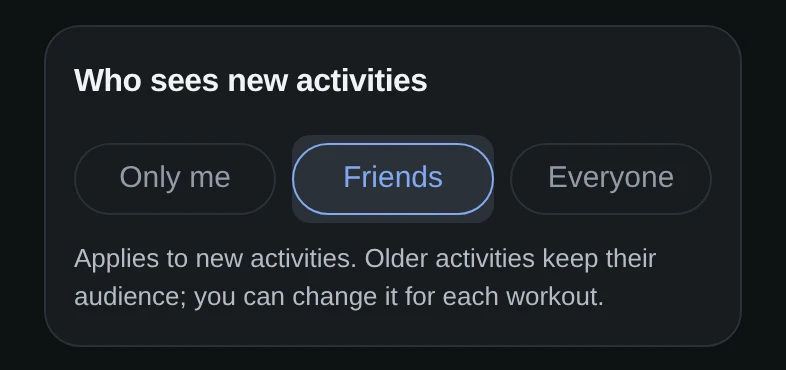
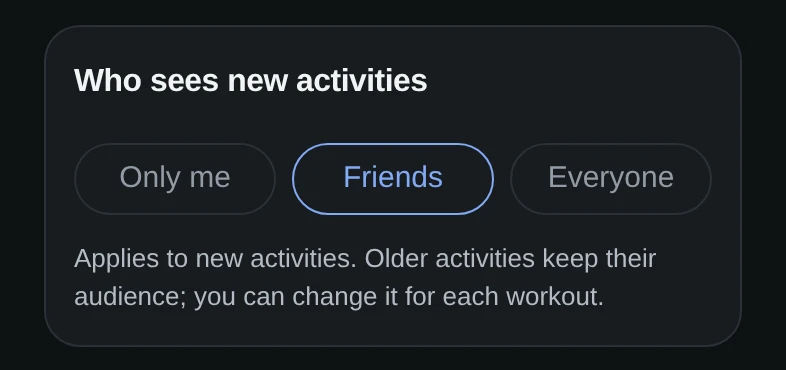
Website: dark audience default captured with #911's fix; shorter Home line

Changed region(s): [[0.3664, 0.3568, 0.6412, 0.6243]]

diff --git a/site/index.html b/site/index.html
@@ -56,7 +56,7 @@
 <section class="tour-hero"><div class="wrap"><span class="eyebrow">Training and food, one app</span><h1>Track workouts. Log food. See progress.</h1><p class="lede">Runs, rides, lifting and meals in one place.</p><a class="btn solid" href="https://login.kinetta.app/signup">Get started</a><div class="tour-access"><a href="https://login.kinetta.app/">Sign in</a><a href="https://testflight.apple.com/join/YAX1JnwB">Install the iPhone beta</a></div><p class="tour-access-note">Your account works on the web; the iPhone beta installs through TestFlight.</p></div></section>
 <section class="tour-pair"><div class="wrap"><figure><div class="tour-workout"><picture><source srcset="assets/tour/activity-map-dark.png" media="(prefers-color-scheme: dark)"><img src="assets/tour/activity-map-light.png" alt="Fictional Morning Run route through streets and a park, with OpenStreetMap contributors and Protomaps attribution." width="786" height="786"></picture><picture><source srcset="assets/tour/activity-result-dark.png" media="(prefers-color-scheme: dark)"><img src="assets/tour/activity-result-light.png" alt="The same Morning Run: distance 3.0 miles, elapsed time 25 minutes, pace 8:18 per mile, elevation 218 feet, average heart rate 149 and cadence 168." width="696" height="332"></picture></div><figcaption><h2>Review a workout</h2><p>The route, then the numbers.</p><a class="tour-link" href="training">Explore Training →</a></figcaption></figure><figure><div class="tour-image"><picture><source srcset="assets/tour/food-day-dark.webp" media="(prefers-color-scheme: dark)"><img src="assets/tour/food-day-light.webp" alt="Fictional logged food day showing daily totals and a complete Breakfast list of foods and amounts." width="730" height="915" fetchpriority="high"></picture></div><figcaption><h2>Log what you eat</h2><p>Every food and amount, with daily totals.</p><a class="tour-link" href="food">Explore Food →</a></figcaption></figure></div></section>
 <section class="tour-band"><div class="wrap tour-split"><div><span class="eyebrow">Progress</span><h2>See your weeks add up.</h2><p class="lede">Totals by week, month and year.</p><a class="tour-link" href="guide#task-week">Revisit a training week →</a></div><figure><div class="tour-image"><picture><source srcset="assets/tour/progress-week-dark.webp" media="(prefers-color-scheme: dark)"><img src="assets/tour/progress-week-light.webp" alt="Fictional weekly running totals and dated distance history chart, with Week, Month and Year views." width="702" height="880" loading="lazy"></picture></div></figure></div></section>
-<section class="tour-band"><div class="wrap tour-split"><div><span class="eyebrow">Privacy</span><h2>Choose who sees your workouts.</h2><p class="lede">Set a default for new workouts, or change one at a time.</p><a class="tour-link" href="friends">Explore Friends →</a></div><figure><div class="tour-image"><picture><source srcset="assets/tour/sharing-default-dark.webp" media="(prefers-color-scheme: dark)"><img src="assets/tour/sharing-default-light.webp" alt="Fictional Sharing &amp; privacy setting: Who sees new activities, with Only me, Friends (selected) and Everyone. It applies to new activities; each workout can be changed." width="786" height="370" loading="lazy"></picture></div></figure></div></section>
+<section class="tour-band"><div class="wrap tour-split"><div><span class="eyebrow">Privacy</span><h2>Choose who sees your workouts.</h2><p class="lede">Set a default, or change one workout.</p><a class="tour-link" href="friends">Explore Friends →</a></div><figure><div class="tour-image"><picture><source srcset="assets/tour/sharing-default-dark.webp" media="(prefers-color-scheme: dark)"><img src="assets/tour/sharing-default-light.webp" alt="Fictional Sharing &amp; privacy setting: Who sees new activities, with Only me, Friends (selected) and Everyone. It applies to new activities; each workout can be changed." width="786" height="370" loading="lazy"></picture></div></figure></div></section>
 <section class="tour-trust" aria-label="Sharing and service details"><div class="wrap"><ul><li><a href="privacy">Privacy policy</a></li><li>Export your data.</li><li>No ads.</li></ul></div></section>
 <section class="tour-final"><div class="wrap"><h2>Start tracking.</h2><a class="btn solid" href="https://login.kinetta.app/signup">Get started</a></div></section>
 </main>

diff --git a/site/content/index.md b/site/content/index.md
@@ -44,7 +44,7 @@ Choose who sees your workouts.
 
 ## home-friends-description
 
-Set a default for new workouts, or change one at a time.
+Set a default, or change one workout.
 
 ## home-trust-share
 
